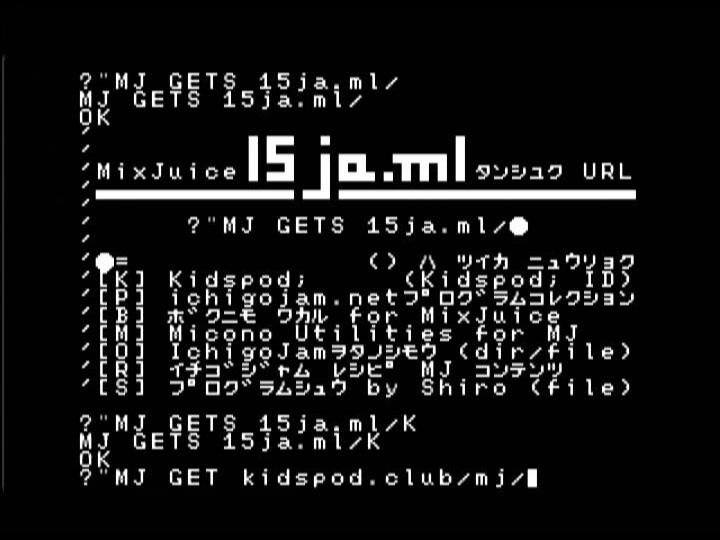
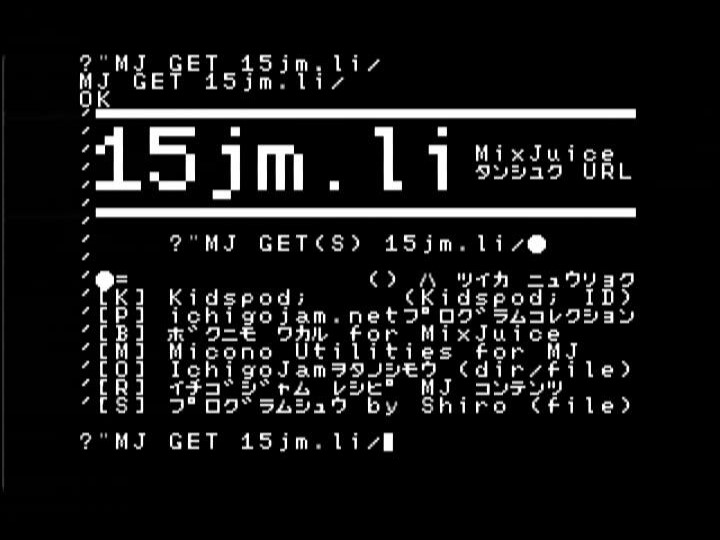
15jm.li へ変更

Changed region(s): [[0.0917, 0.0889, 0.8861, 0.9185]]

diff --git a/README.md b/README.md
@@ -1,22 +1,6 @@
-## 15ja.ml - MixJuice 短縮 URL
+## 15jm.li - MixJuice 短縮 URL
 
-___
-
-お知らせ(2019/04/19→2019/04/21 更新)\
-現在ドメイン 15ja.ml が freenom より参照停止されています。\
-対応していますが、復旧できても数日要すると思われますので、\
-ijmj.eu.org で代わりに運用中です。
-
-```
-?"MJ GET(S) ijmj.eu.org/●
-```
-
-メニュー表示は `?"MJ GET(S) ijmj.eu.org/0`\
-R = イチゴジャム レシピ MJ コンテンツは `?"MJ GET(S) ijmj.eu.org/` となります。
-
-___
-
-![15ja.ml スクリーンショット](/screenshot.jpg)
+![15jm.li スクリーンショット](/screenshot.jpg)
 
 MixJuice を使っていて困っていたのが
 
@@ -30,43 +14,45 @@ bit.ly などの一般的な短縮 URL は転送に http ステータス 301 や
 MixJuice はこの転送方法を処理できません。\
 そこで専用に独自ドメインを取得し、MixJuice 専用の短縮 URL にしました。
 
+2019年5月1日より、ドメイン 15jm.li に変更し運用しています。
+
 ## 使用方法
 
 IchigoJam BASIC+MixJuice 環境より、次を入力します。
 
 ```
-?"MJ GET 15ja.ml/
+?"MJ GET 15jm.li/
 ```
 
 で一覧が表示されます。\
 GET の代わりに **GETS** も使用可能です。（MixJuice 1.2.2 以降または MicJack）
 
 ```
-?"MJ GET 15ja.ml/●
+?"MJ GET 15jm.li/●
 ```
 
 で目的のサイトへ転送、<br>
 または GET・GETS コマンドの途中までを表示し、入力によって補完します。
 
-## 15ja.ml 登録コンテンツ
+## 15jm.li 登録コンテンツ
 
-現在 15ja.ml で登録している MixJuice コンテンツは次のとおりです。
+現在 15jm.li で登録している MixJuice コンテンツは次のとおりです。
 
 |アドレス|MixJuice コンテンツ|追加入力|
 ----|----|----
-|[15ja.ml/K](https://github.com/fu-sen/15ja.ml/blob/master/K)|[Kidspod;](http://kidspod.club/)|Kidspod; ID|
-|[15ja.ml/P](https://github.com/fu-sen/15ja.ml/blob/master/P)|[ichigojam.net プログラムコレクション](https://www.facebook.com/groups/ichigojam/permalink/718281468311609/)| |
-|[15ja.ml/B](https://github.com/fu-sen/15ja.ml/blob/master/B)|[ボクにもわかる for MixJuice](https://blogs.yahoo.co.jp/bokunimowakaru/55369582.html)| |
-|[15ja.ml/M](https://github.com/fu-sen/15ja.ml/blob/master/M)|[Micono Utilities for MixJuice](http://ijutilities.micutil.com/)| |
-|[15ja.ml/O](https://github.com/fu-sen/15ja.ml/blob/master/O)|[IchigoJamを楽しもう](http://www.openspc2.org/reibun/IchigoJam/)|dir/file|
-|[15ja.ml/R](https://github.com/fu-sen/15ja.ml/blob/master/R)|[イチゴジャム レシピ MixJuice コンテンツ](https://github.com/fu-sen/15jr.tk)| |
-|[15ja.ml/S](https://github.com/fu-sen/15ja.ml/blob/master/S)|[IchigoJamプログラム集 by Shiro Saito](http://comich.net/ichigojam/)|file|
+|[15jm.li/K](https://github.com/fu-sen/15ja.ml/blob/master/K)|[Kidspod;](http://kidspod.club/)|Kidspod; ID|
+|[15jm.li/P](https://github.com/fu-sen/15ja.ml/blob/master/P)|[ichigojam.net プログラムコレクション](https://www.facebook.com/groups/ichigojam/permalink/718281468311609/)| |
+|[15jm.li/B](https://github.com/fu-sen/15ja.ml/blob/master/B)|[ボクにもわかる for MixJuice](https://blogs.yahoo.co.jp/bokunimowakaru/55369582.html)| |
+|[15jm.li/M](https://github.com/fu-sen/15ja.ml/blob/master/M)|[Micono Utilities for MixJuice](http://ijutilities.micutil.com/)| |
+|[15jm.li/O](https://github.com/fu-sen/15ja.ml/blob/master/O)|[IchigoJamを楽しもう](http://www.openspc2.org/reibun/IchigoJam/)|dir/file|
+|[15jm.li/R](https://github.com/fu-sen/15ja.ml/blob/master/R)|[イチゴジャム レシピ MixJuice コンテンツ](https://github.com/fu-sen/15jr.tk)| |
+|[15jm.li/S](https://github.com/fu-sen/15ja.ml/blob/master/S)|[IchigoJamプログラム集 by Shiro Saito](http://comich.net/ichigojam/)|file|
 
 <a href="https://15jamrecipe.jimdo.com/mixjuice/%E3%82%B3%E3%83%B3%E3%83%86%E3%83%B3%E3%83%84/" target="_blank">MixJuice/コンテンツ | イチゴジャム レシピ</a> に画像付の一覧があります。
 
 ## 追加方法
 
-15ja.ml からの参照は IchigoJam BASIC+MixJuice で参照できるコンテンツに限られます。\
+15jm.li からの参照は IchigoJam BASIC+MixJuice で参照できるコンテンツに限られます。\
 独自ドメインの特性上、パソコン・スマートフォン向け Web へのリンクは行いません。\
 Issues・Pull Request していただくか、直接管理人へご連絡下さい。
 
@@ -82,16 +68,20 @@ IJUtilities でファイルを開くと、実際の IchigoJam 表示で編集で
 
 ## 管理状態
 
-完全にドメイン・サーバ費用無料で運営しています。
+利便性のため、[Google App Engine](https://cloud.google.com/appengine/docs/whatisgoogleappengine?hl=ja) を採用し、\
+PHP を用いて次を処理しています。
 
-* ソース管理 - [GitHub](https://github.com/)
-* 独自ドメイン - [Freenom](https://www.freenom.com/)
-* 公開 Web サーバ - [Google App Engine](https://cloud.google.com/appengine/docs/whatisgoogleappengine?hl=ja)
+- MixJuice・MicJack 以外はこの GitHub リポジトリページへ転送します。
+- 15jm.li/●/～ を処理しています。
+- Not Found で入力した内容を再表示できるようにしています。
+
+このため PHP で処理しているところがありますが、実体は www/ 下のファイルを参照します。
 
 ## 運営
 
 イチゴジャム レシピ https://15jamrecipe.jimdo.com/ が管理しています。
 
+* 2019/05/01 ドメインを 15jm.li へ変更
 * 2019/04/05 運営サーバを Google App Engine へ移動（PHP 処理で大文字・小文字関係なく動作）
 * 2018/12/30 運営サーバを GitHub Pages へ移動（GET 参照可能に）
 * 2018/10/14 ソース GutHub 共有開始
